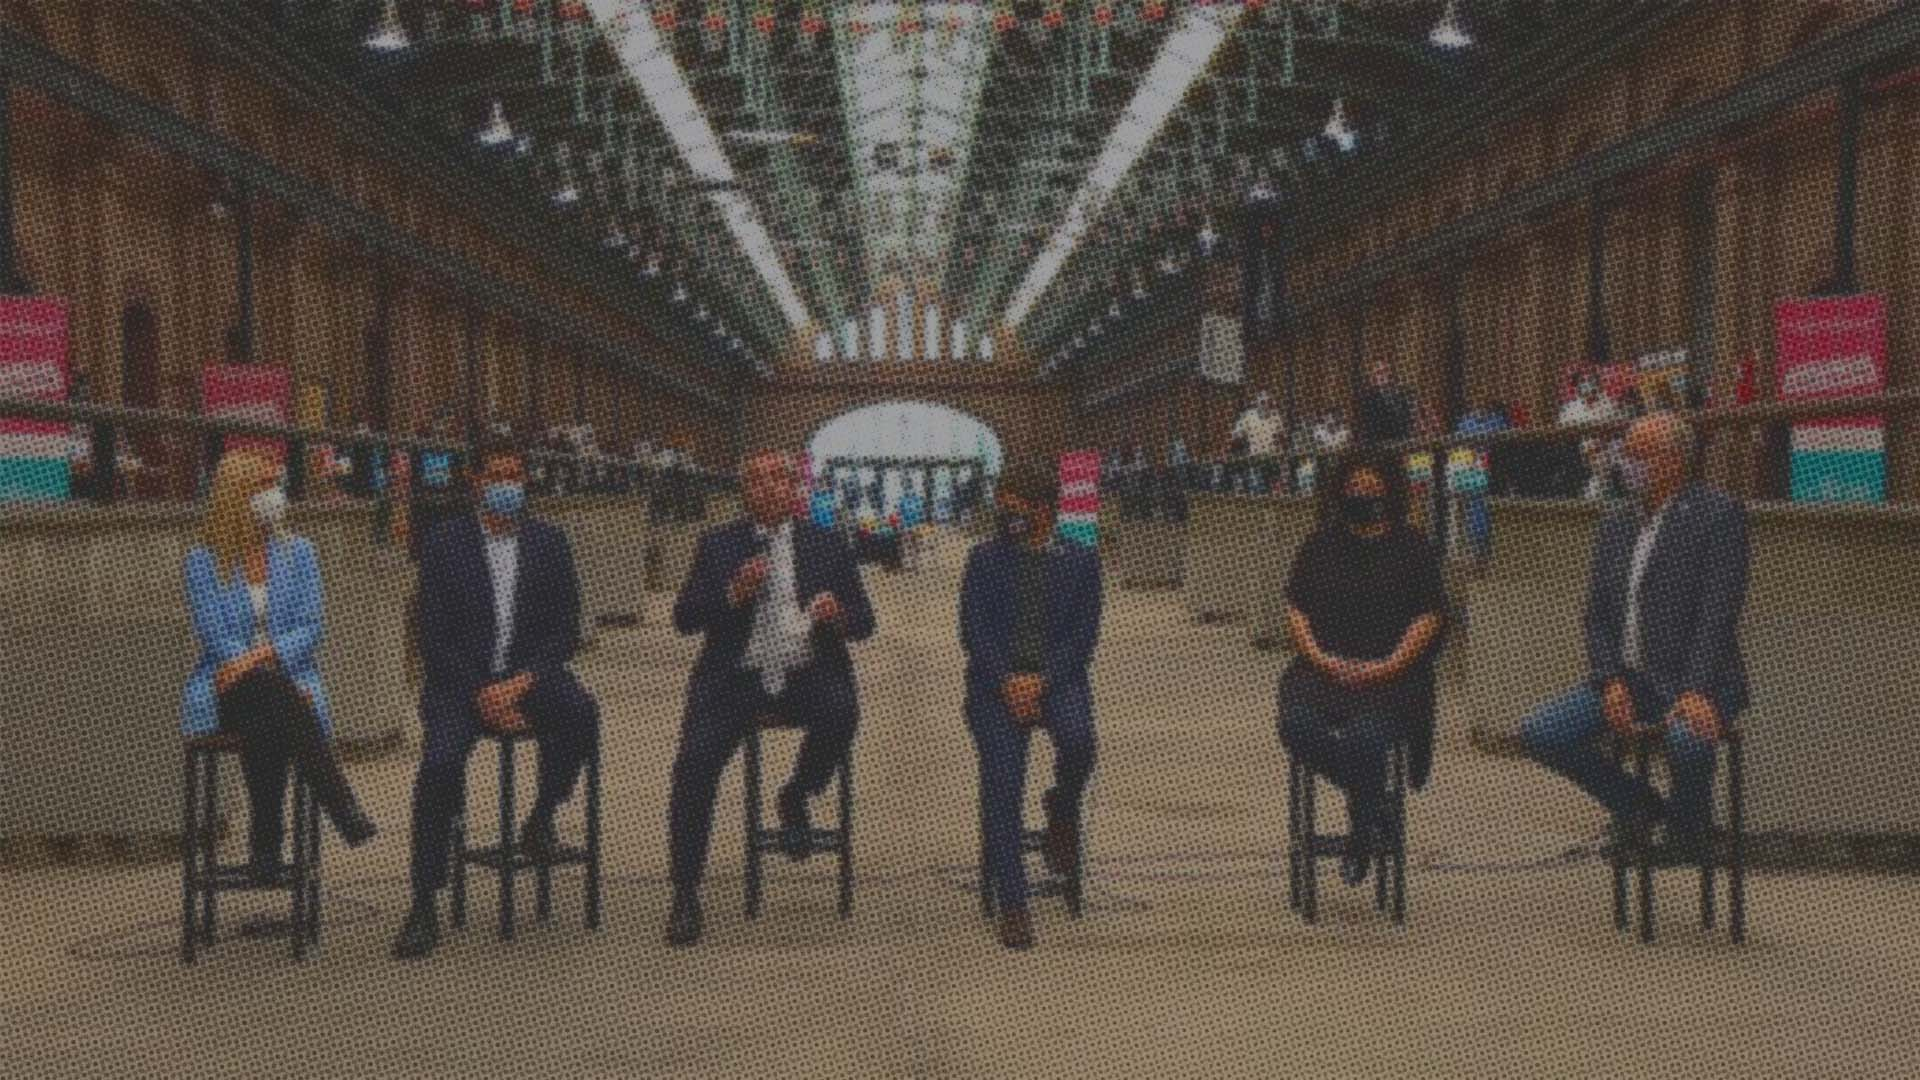
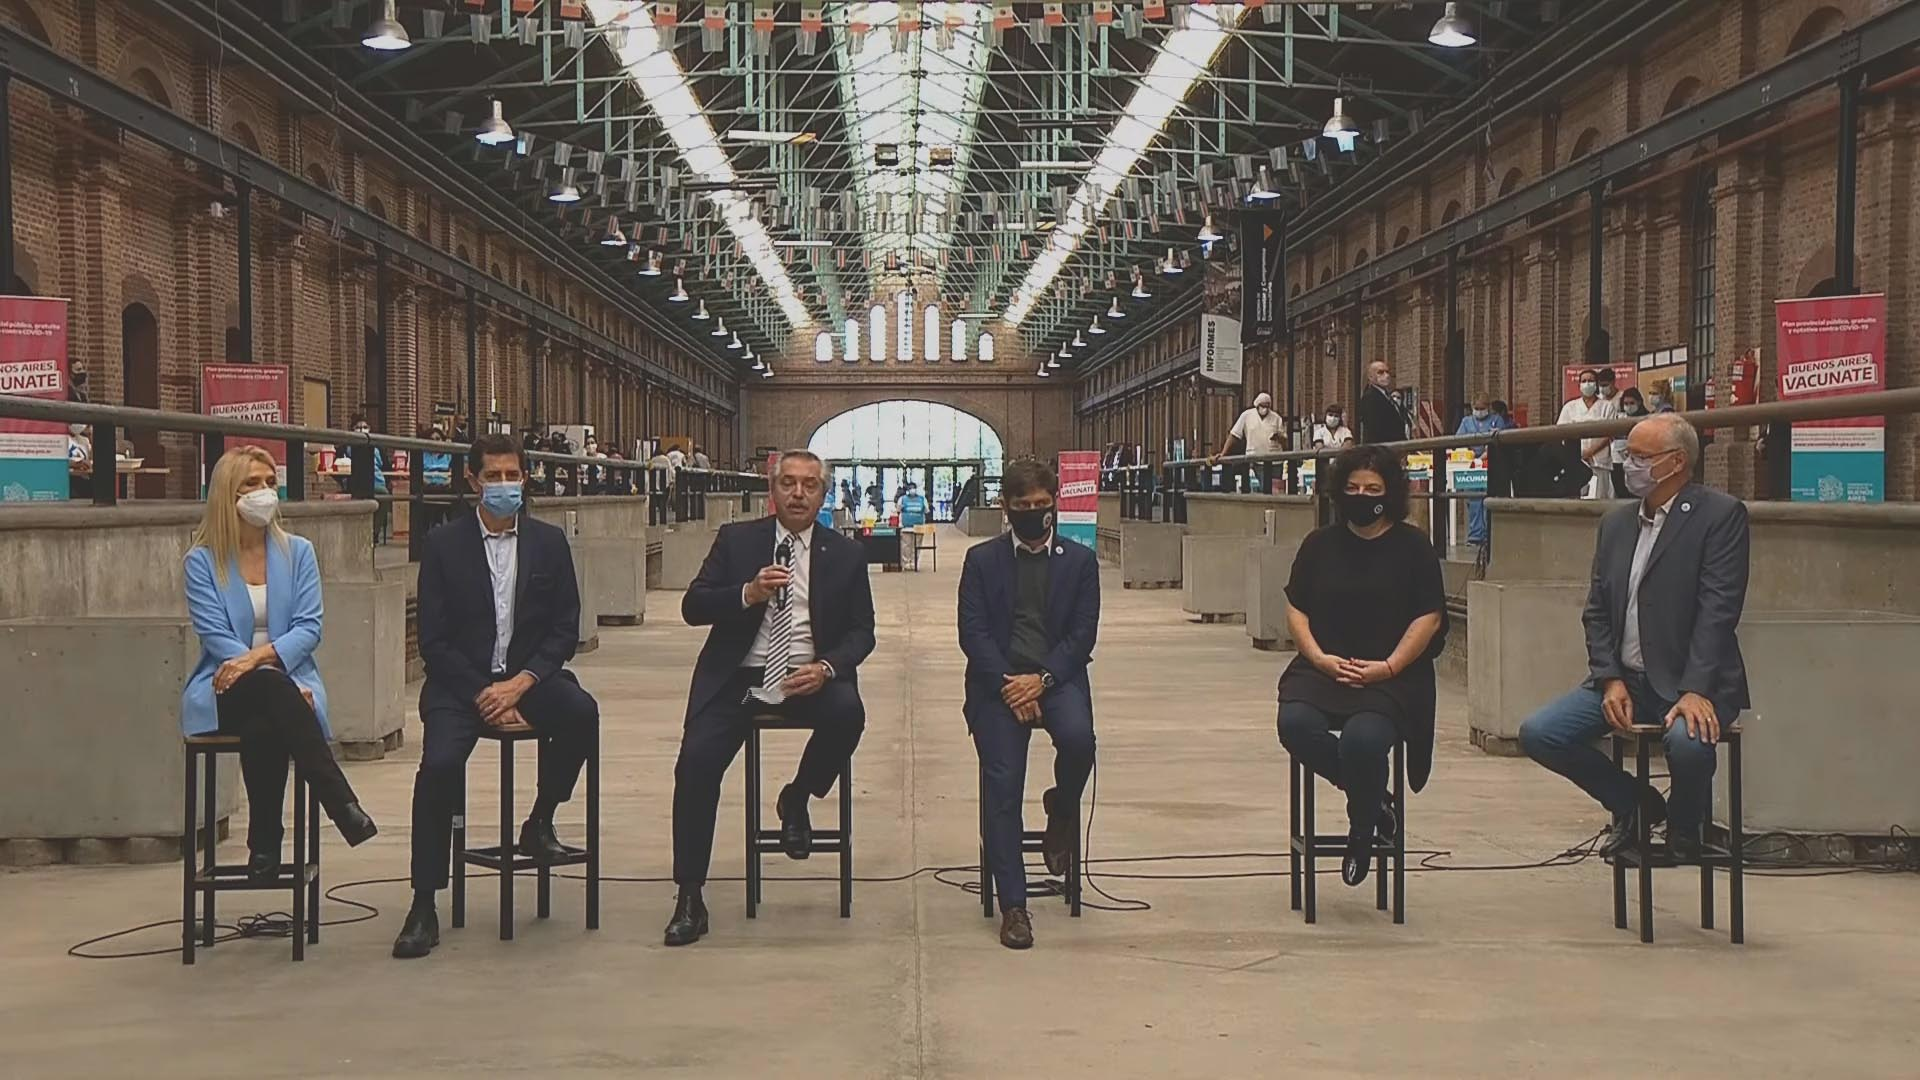
Mejora background de header index

diff --git a/src/main/resources/static/css/home/index.css b/src/main/resources/static/css/home/index.css
@@ -27,10 +27,18 @@
   .header-bg.show {
     opacity: 1;
   }
+
+  .header-bg-trama {
+    position: absolute;
+    left: 0; top: 0; right: 0; bottom: 0;
+    background-repeat: repeat;
+    background-image: url('/imgs/trama.png');
+    z-index: 2;
+  }
   
   .titulo{
-    background-color: rgba(0,0,0,0.25);
-    z-index: 2;
+    background-color: rgba(0,0,0,0.35);
+    z-index: 3;
   }
   
   .section-index {

diff --git a/src/main/resources/templates/home/index.html b/src/main/resources/templates/home/index.html
@@ -20,6 +20,7 @@
 
     <!-- Header-->
     <header class="text-white header-index bg-dark">
+        <div class='header-bg-trama'></div>
         <div class='header-bg'></div>
         <div class="container px-4 text-center">
             <div class="row justify-content-center">
